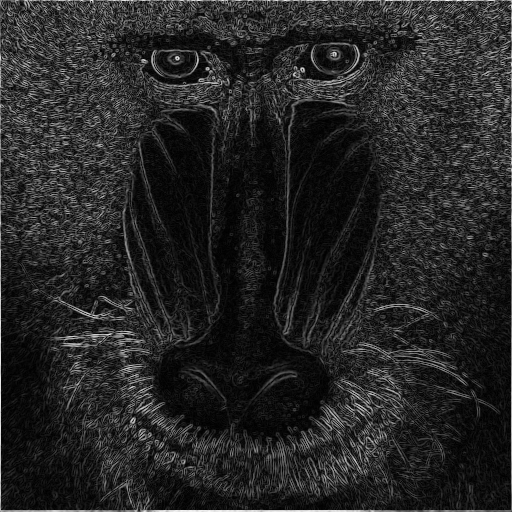
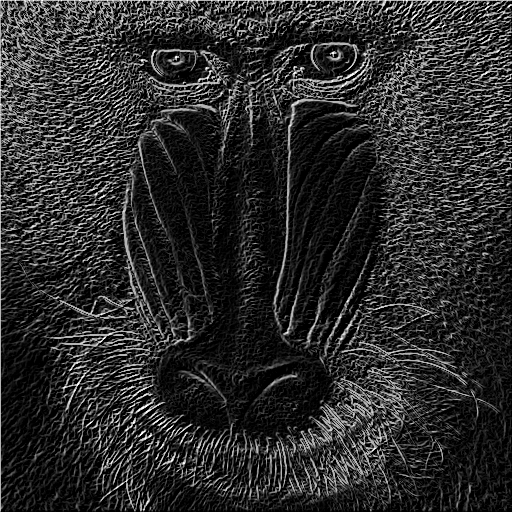
mudança no filtro e diff

diff --git a/trabalho1/trabalho1.py b/trabalho1/trabalho1.py
@@ -2,9 +2,9 @@ import sys
 import pandas as pd
 import numpy as np
 import cv2
-import skimage
+import skimage as si
 
-#item A
+# item A
 def filterA(img):
     b,g,r = cv2.split(img)
     filter = np.array([
@@ -24,7 +24,7 @@ def filterA(img):
     return cv2.merge((_b, _g, _r)).astype(np.uint8)
 
 
-#item B
+# item B
 def filterB(img):
     filter = np.array([0.2989, 0.5870, 0.1140])
 
@@ -34,7 +34,7 @@ def filterB(img):
 
     return I
 
-#defining filters
+# defining filters
 h1 = np.array([[-1, 0, 1], [-2, 0, 2], [-1, 0, 1]])
 h2 = np.array([[-1, -2, -1], [0, 0, 0], [1, 2, 1]])
 h3 = np.array([[-1, -1, -1], [-1, 8, -1], [-1, -1, -1]])
@@ -47,9 +47,9 @@ h9 = np.array([[1, 4, 6, 4, 1], [4, 16, 24, 16, 4], [6, 24, 36, 24, 6], [4, 16, 
 
 filters = np.array([h1, h2, h3, h4, h5, h6, h7, h8, h9], dtype=object)
 
-#apply convolution to image
+# apply convolution to image
 def applyFilter(image, filter):
-    #convert 3d grayscale images to 2d 
+    # convert 3d grayscale images to 2d 
     if len(image.shape) > 2:
         image = image[:,:,0]
     rows, cols = image.shape[:2]
@@ -58,8 +58,6 @@ def applyFilter(image, filter):
     pad_c = cols_k//2
     pad_r = rows_k//2
 
-    # creating output array
-    output_array = np.zeros((rows, cols))
     
     # adding padding to image
     padded_image = np.pad(image, [
@@ -67,21 +65,17 @@ def applyFilter(image, filter):
         (pad_c, pad_c)
     ])
 
-    output_array_rows, output_array_cols = output_array.shape[:2]
-
-    # non-vectorized version
-    #for r in range(output_array_rows):
-    #    for c in range(output_array_cols):
-    #        output_array[r, c] = (filter * padded_image[r:r + rows_k, c:c + cols_k]).sum()
-
     # vectorized version
-    # dividing padded_image into sub-matrices of the filter size
-    sub_matrices = skimage.util.shape.view_as_windows(padded_image, (rows_k, cols_k))
-    output_array = np.einsum('ij,rcij->rc', filter, sub_matrices)
-    
-    return output_array
+    # dividing padded_image into sub-matrices with filter size
+    sub_matrices = si.util.shape.view_as_windows(padded_image, (rows_k, cols_k))
+    output = np.einsum('ij,rcij->rc', filter, sub_matrices)
 
-#combine two filters
+    output[output < 0] = 0
+    output[output > 255] = 255
+
+    return output
+
+# combine two filters
 def combineFilters(img, filter1, filter2):
     img1 = applyFilter(img, filter1).astype(np.float32)
     img2 = applyFilter(img, filter2).astype(np.float32)
@@ -91,7 +85,7 @@ def combineFilters(img, filter1, filter2):
     return cv2.normalize(img3, None, 0, 255, cv2.NORM_MINMAX, cv2.CV_8U)
 
 def main():
-    #read args
+    # read args
     if len(sys.argv) < 4:
         print("Usage: python3 trabalho1.py <image_path> <type_of_img> <filter_type> [output_filename]")
         print("<type_of_img> must be 0 if was passed a colored image and 1 otherwise")
@@ -110,10 +104,10 @@ def main():
     else:
         output_filename = "./output.png"
 
-    #read image
+    # read image
     img = cv2.imread(img_name)
 
-    #select filter
+    # select filter
     if type_of_img == 0:
         if flt_type < 0 or flt_type > 2:
             print("Invalid filter. The filter value must be an integer on interval [0, 2]")
@@ -144,7 +138,7 @@ def main():
         else:
             output_img = applyFilter(img, filters[flt_type-1])
 
-    #write output image
+    # write output image
     cv2.imwrite(output_filename, output_img)
 
 if __name__ == "__main__":

diff --git a/diff/diff.py b/diff/diff.py
@@ -1,0 +1,36 @@
+import sys
+import pandas as pd
+import numpy as np
+import cv2
+import skimage as si
+
+def main():
+    # read args
+    if len(sys.argv) < 3:
+        print("Usage: python3 trabalho1.py <image1> <image2> [output_filename]")
+        exit()
+
+    name_img1 = str(sys.argv[1])
+    name_img2 = str(sys.argv[2])
+    if len(sys.argv) > 3:
+        output_filename = str(sys.argv[3])
+    else:
+        output_filename = "./output.png"
+
+    img1 = cv2.imread(name_img1)
+    img2 = cv2.imread(name_img2)
+
+    if len(img1.shape) > 2:
+        img1 = img1[:,:,0]
+
+    if len(img2.shape) > 2:
+        img2 = img2[:,:,0]
+
+    output = np.where(img1 - img2 < 0, (img1 - img2)*-1, img1 - img2)
+
+    print(img1 - img2)
+
+    cv2.imwrite(output_filename, output)
+
+if __name__ == "__main__":
+    main()
